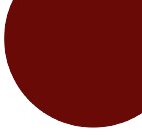
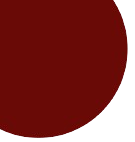
Estandarización de los titulos en los reportes

Changed region(s): [[0.0, 0.0, 1.0, 0.9778]]

diff --git a/api/helpers/report.php b/api/helpers/report.php
@@ -55,21 +55,23 @@ class Report extends FPDF
     public function header()
     {
         // Se establece el logo.
-        $this->image('../../images/report/1.png', 170, 0, 50);
-        $this->image('../../images/report/5.png', 0, 1, 35);
-        $this->image('../../images/report/2.png', 198, 75, 35);
-        $this->image('../../images/report/6.png', -18, 110, 35);
-        $this->image('../../images/report/logo_1.png', 15, 12, 25);
+        $this->image('../../images/report/1.png', 0, 0, 35 );
+        $this->image('../../images/report/5.png', 185, -24, 35);
+        $this->image('../../images/report/2.png', 198, 85, 35);
+        $this->image('../../images/report/6.png', -18, 120, 35);
+        $this->image('../../images/report/logo_3.png', 0, 1, 30);
+        // Se ubica la fecha y hora del servidor.
+        $this->cell(20);
+        $this->setFont('Arial', '', 10);
+        $this->setXY(15, 20); // Ajustar posición inicial para la fecha.
+        $this->cell(0, 5, 'Fecha/Hora: ' . date('d-m-Y H:i:s'), 0, 1, 'C');
         // Se ubica el título.
         $this->cell(20);
-        $this->setFont('Arial', 'B', 15);
-        $this->cell(85, 10, $this->encodeString($this->title), 0, 1, 'C');
-        // Se ubica la fecha y hora del servidor.
-        $this->cell(20 );
-        $this->setFont('Arial', '', 10);
-        $this->cell(68, 10, 'Fecha/Hora: ' . date('d-m-Y H:i:s'), 0, 1, 'C');
+        $this->setFont('Arial', 'B', 13); // Reducir la fuente del título.
+        $this->setXY(15, 30); // Ajustar la posición inicial del título.
+        $this->MultiCell(0, 7, $this->encodeString($this->title), 0, 'C'); // Reducir la altura de línea.
         // Se agrega un salto de línea para mostrar el contenido principal del documento.
-        $this->ln(10);
+        $this->ln(8);
     }
 
     /*
